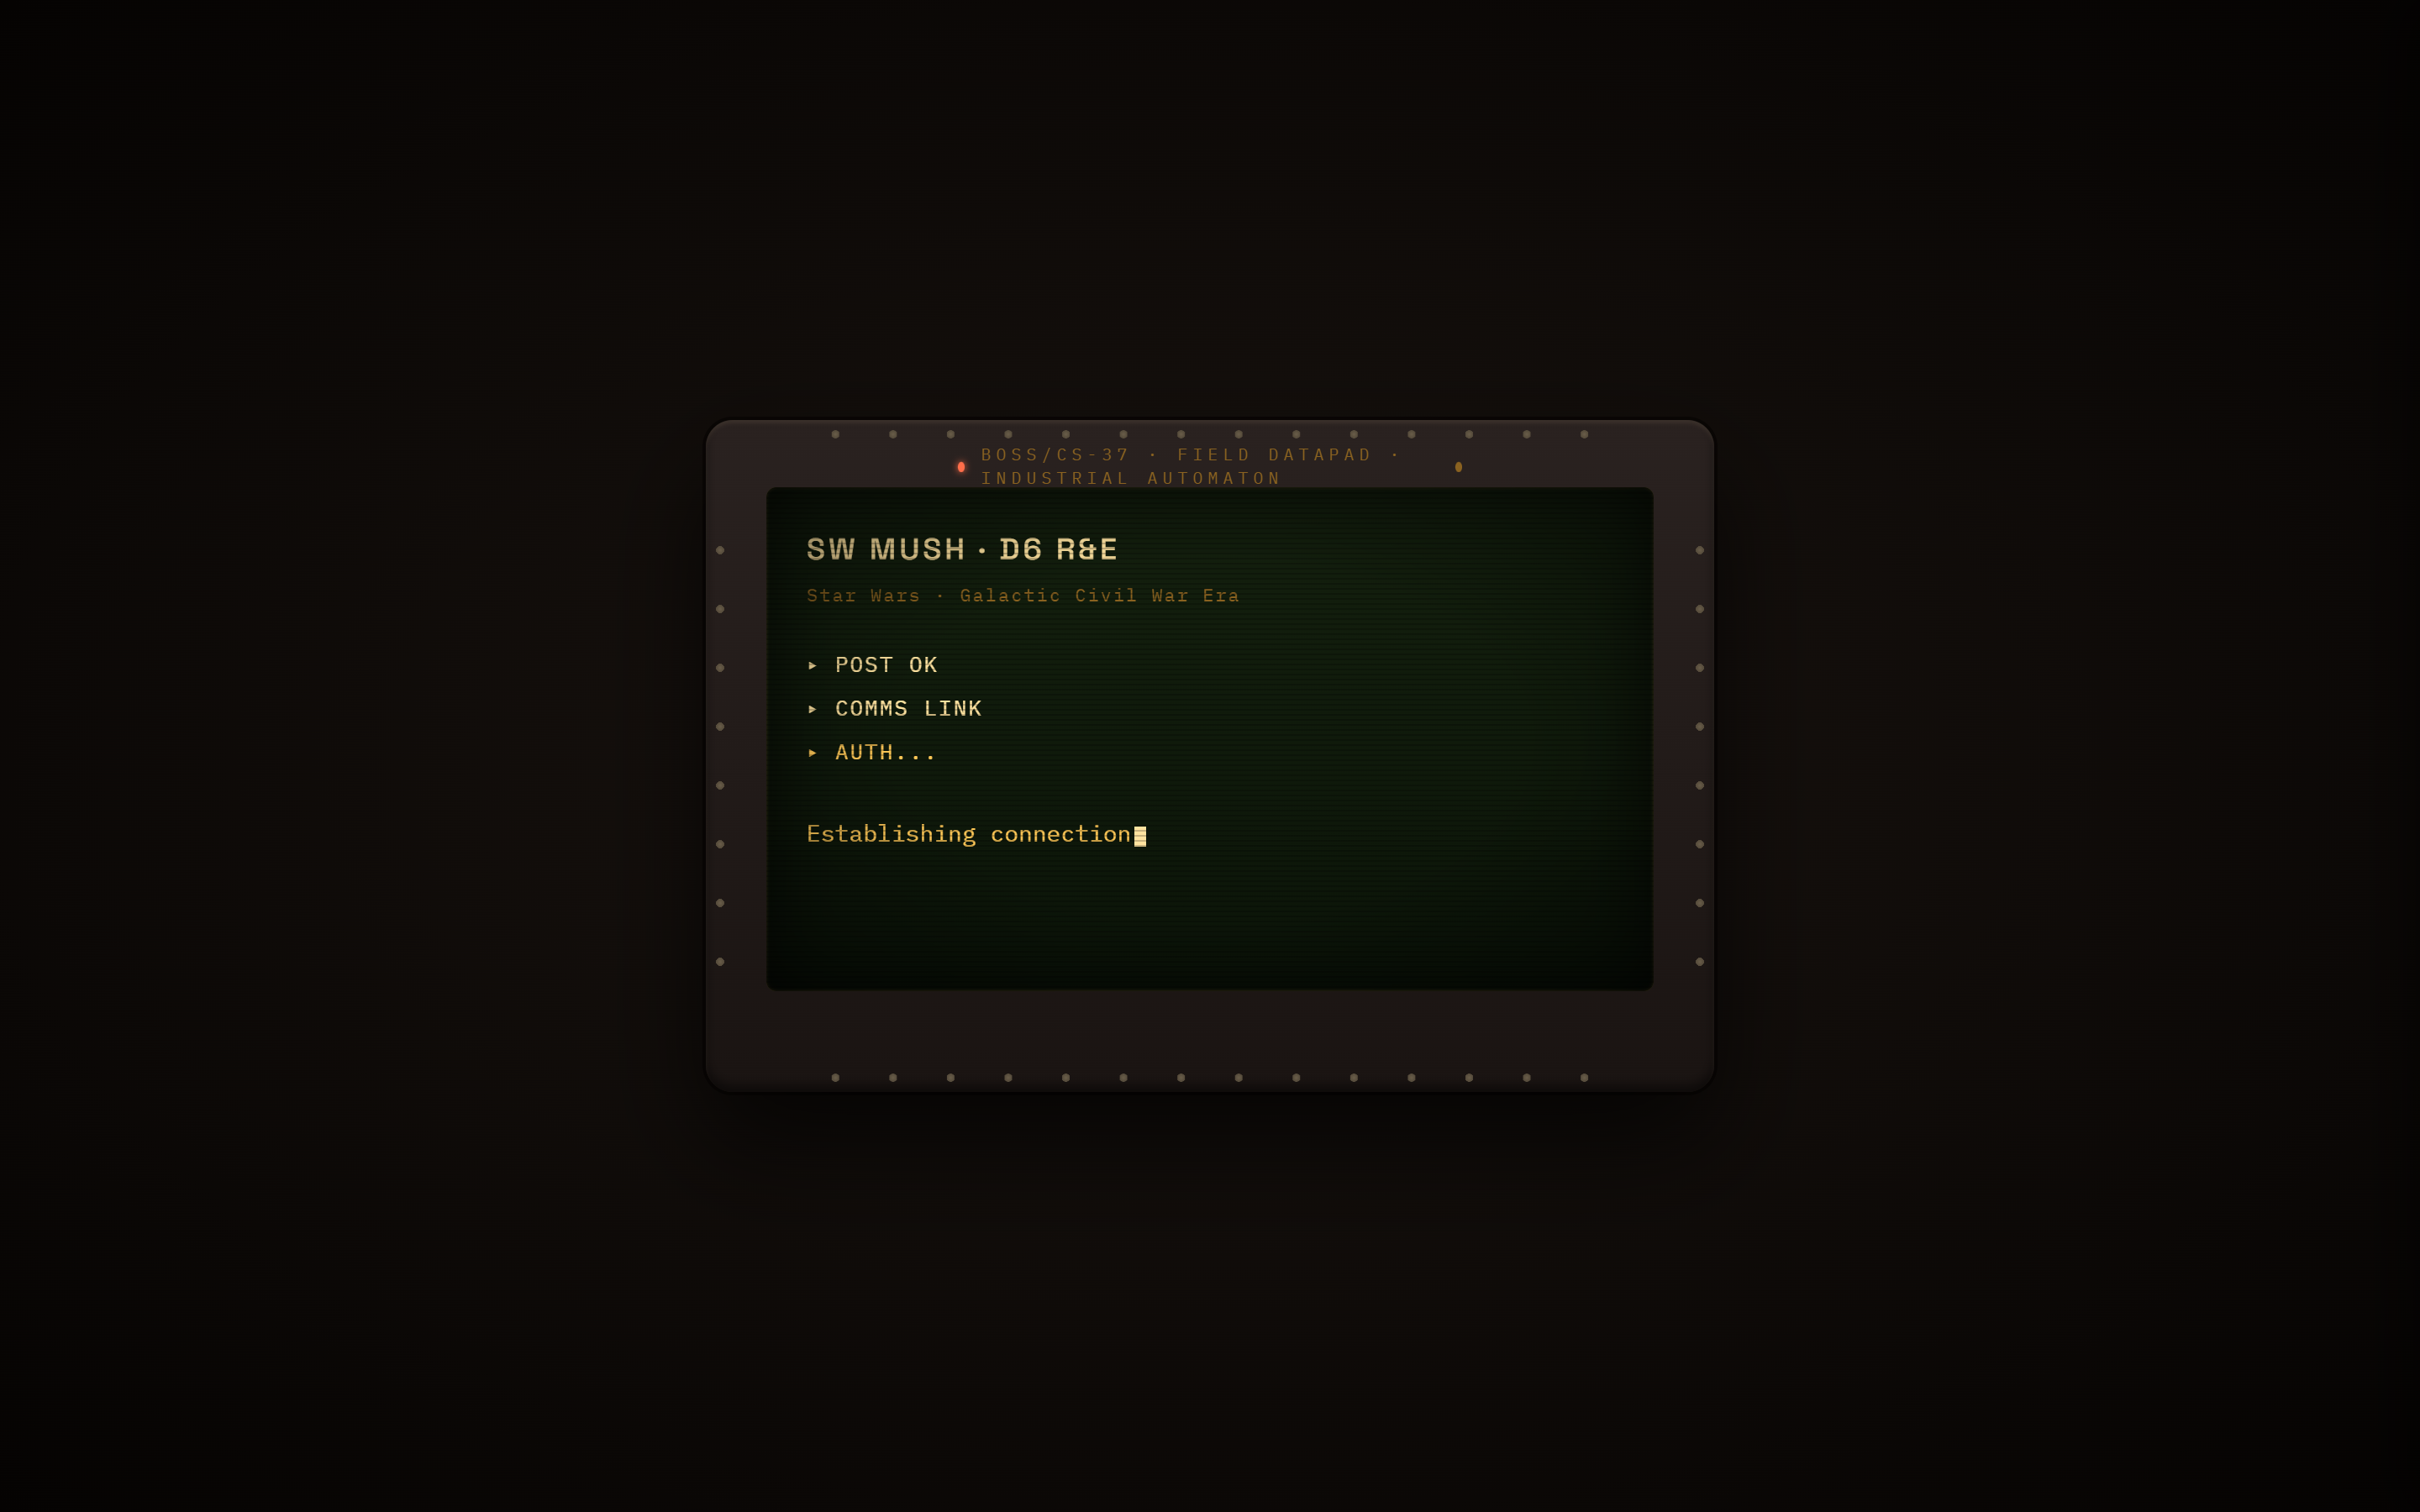
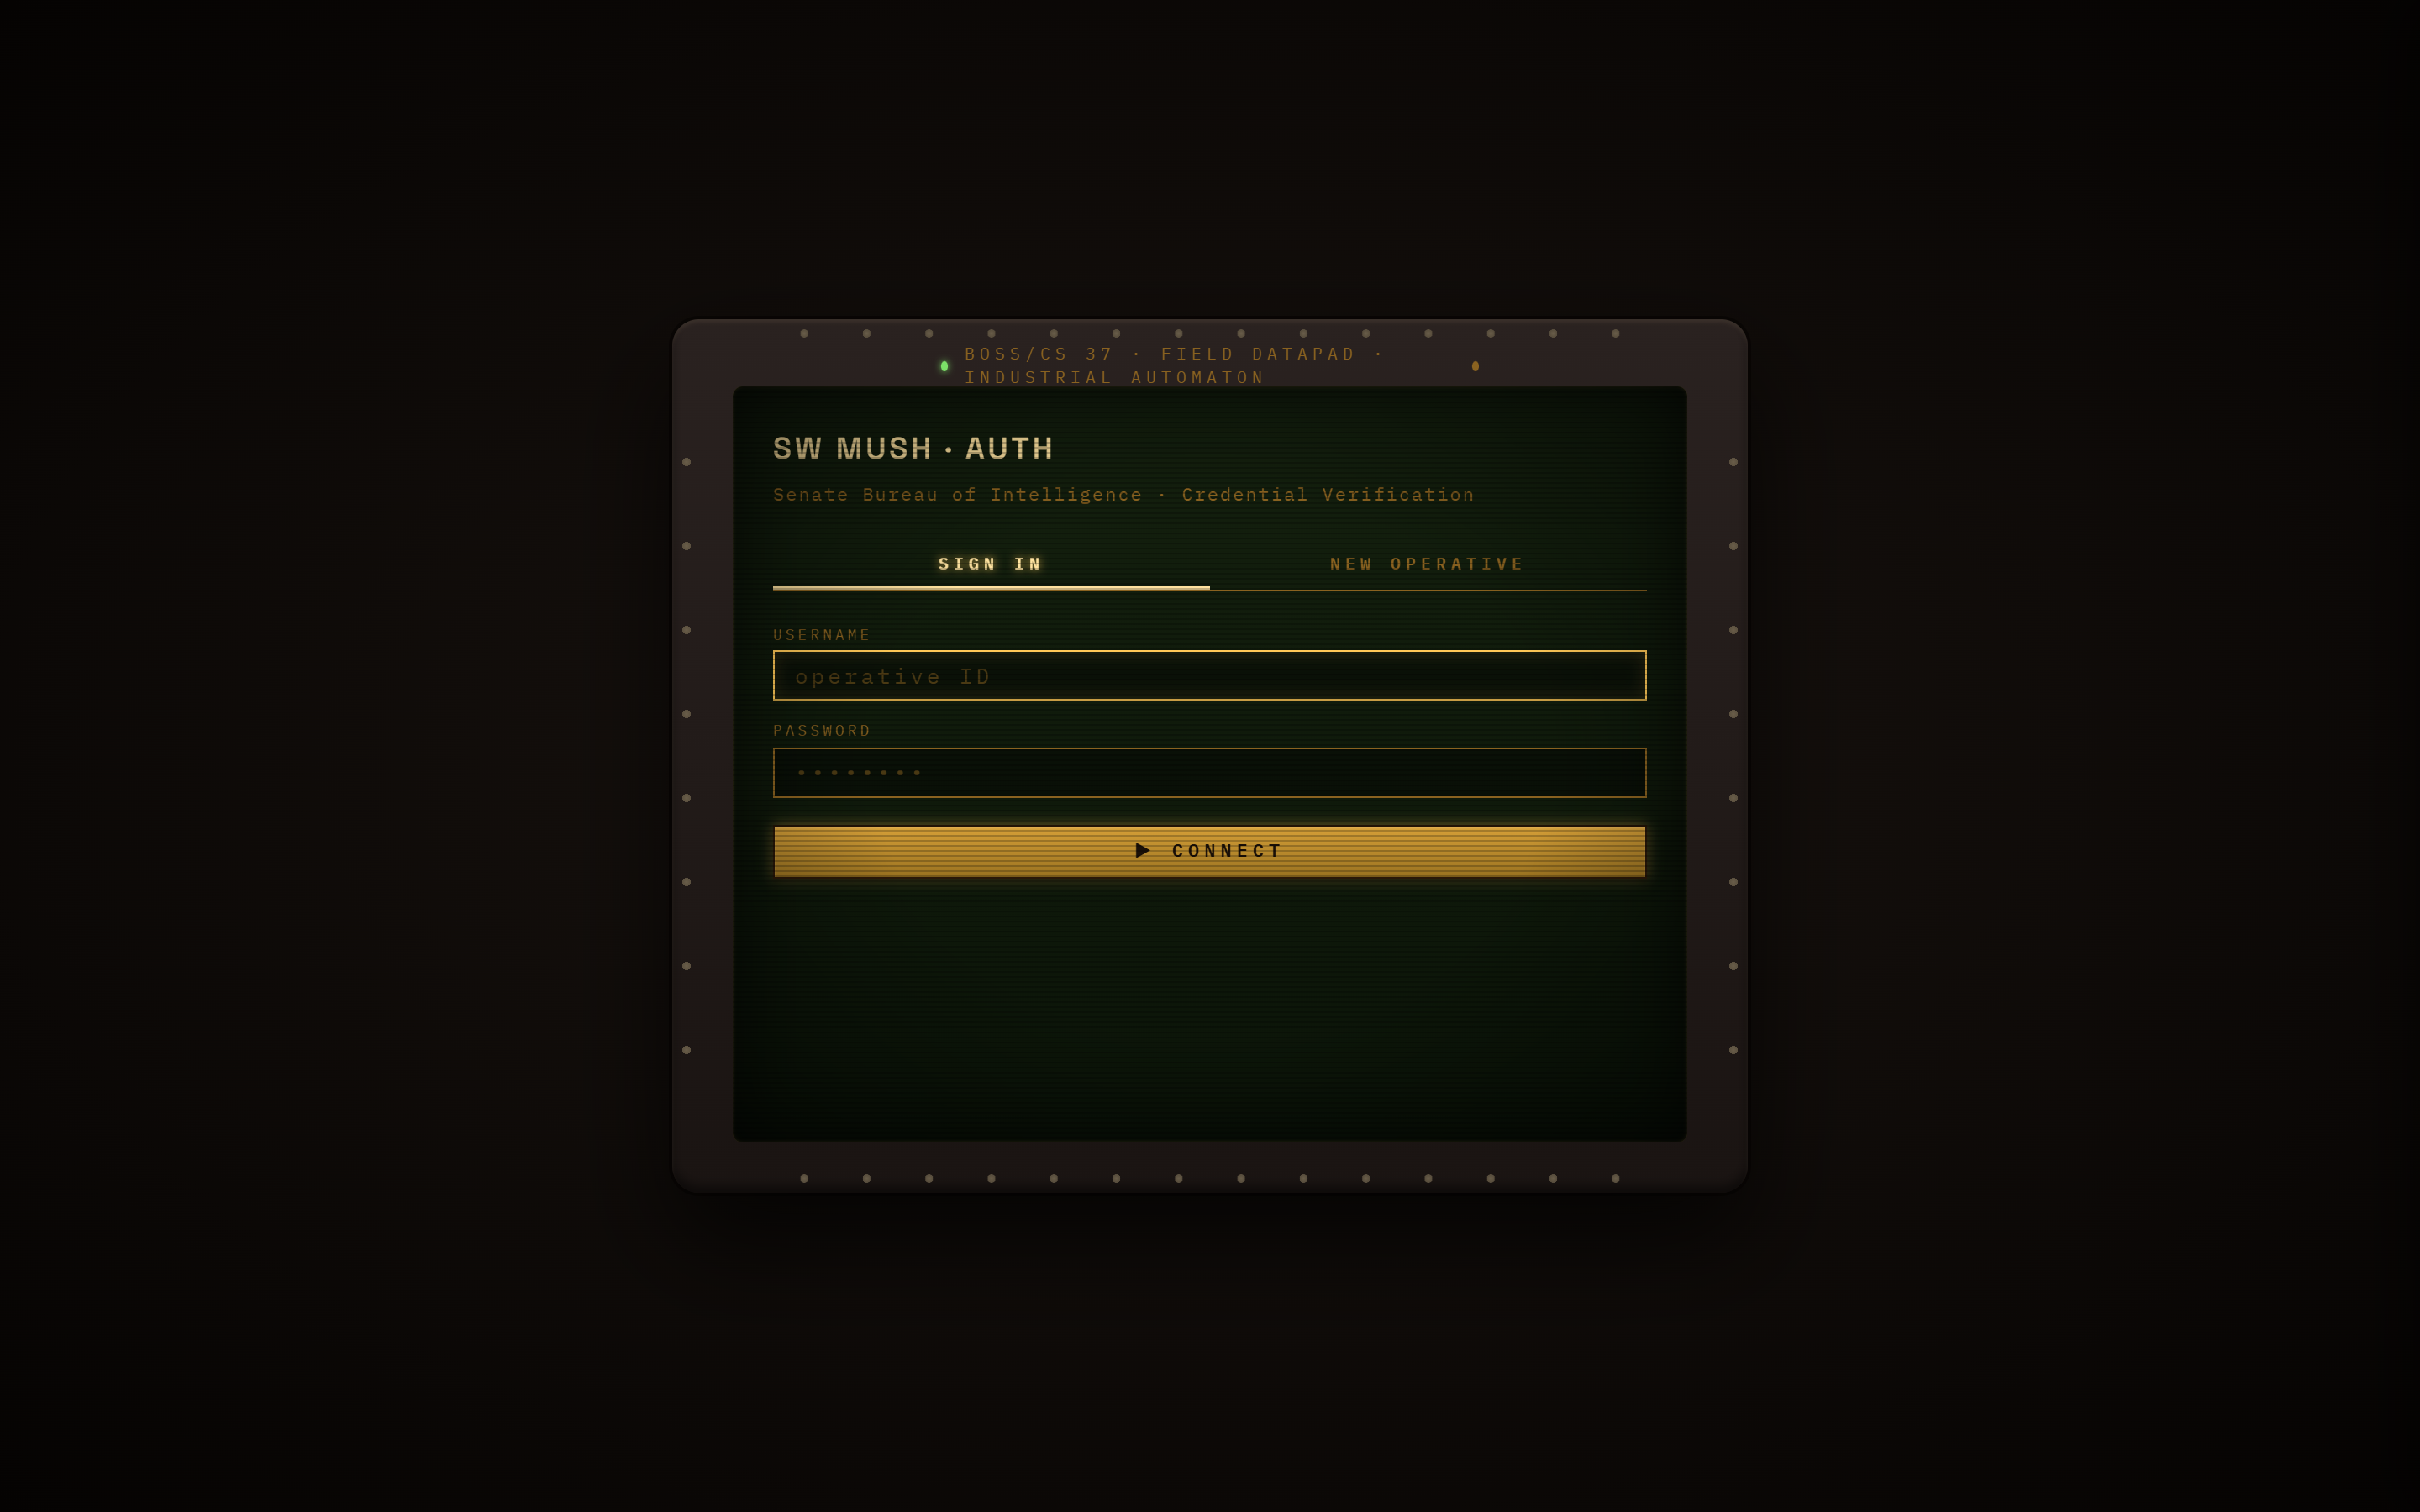
Claude Design handoff: re-capture pre-login funnel LIVE (fix chargen "failed to load")
03_chargen.png showed "Failed to load game data (Species API HTTP 404)" — the
static http.server doesn't serve /api/chargen/species. Re-captured 01/02/03 and
added 03b against a live game server (ANTHROPIC_API_KEY="" for cost-safety):
  - 03  = Choose Your Path step (9 era-correct templates + Build From Scratch)
  - 03b = Allocate Attributes step (18D across six D6 attrs, live ± steppers)
The pre-login funnel now reflects real backend data; handoff index + caveats updated.

Changed region(s): [[0.2812, 0.1867, 0.7188, 0.5911]]

diff --git a/docs/design/CLAUDE_DESIGN_HANDOFF.md b/docs/design/CLAUDE_DESIGN_HANDOFF.md
@@ -47,16 +47,18 @@ actionable fixes. The dev side executes it.
   from the working title "SW_MUSH" to an original, non-trademarked name.)
 
 ## 4. Screenshot index
-Captured at 1440×900, 2× DPI, system Edge. *Note: the in-game surfaces are populated with
-representative MOCK data (a sample character "Tey Voss" in Mos Eisley) so the review is
-about layout/visual design, not the specific values — e.g. shop prices show placeholder
-"0 cr".*
+Captured at 1440×900, 2× DPI, system Edge. *Note: the **pre-login surfaces (01 landing, 02
+login, 03/03b chargen) are captured LIVE against the real backend** — real data, the actual
+new-player funnel. The **in-game** surfaces (04+) are populated with representative MOCK data
+(a sample character "Tey Voss" in Mos Eisley) so the review is about layout/visual design,
+not the specific values — e.g. shop prices show placeholder "0 cr".*
 
 | # | File | Surface | Notes |
 |---|------|---------|-------|
 | 01 | `01_landing_portal.png` | **Landing / portal** (pre-login marketing+pitch surface) | first impression; the conversion hook |
 | 02 | `02_login_boot.png` | **Login / boot** screen | the SPA boot + auth entry |
-| 03 | `03_chargen.png` | **Character creation** wizard | the onboarding funnel |
+| 03 | `03_chargen.png` | **Character creation** — step 1, *Choose Your Path* (9 era-correct templates + Build From Scratch) | the onboarding funnel entry; **captured live** (real backend data) |
+| 03b | `03b_chargen_attributes.png` | **Character creation** — step 3, *Allocate Attributes* (18D across the six D6 attributes w/ ± steppers, live remaining-dice counter) | the core chargen interaction; **captured live** |
 | 04 | `04_ground_play.png` | **Integrated ground client** — the core play view (sidebar: char/condition/attributes/credits/CP/loadout · center: room · context panel: map/zone-influence/recent · command bar) | the most-used surface; one minor sub-panel (HERE/occupants) was skipped by a mock-data gap — its layout slot is visible |
 | 05 | `05_holonet.png` | **Holonet** in-game news browser (modal) | the Director-AI news surface |
 | 06 | `06_sheet.png` | **Character sheet** (modal) | full D6 stats |